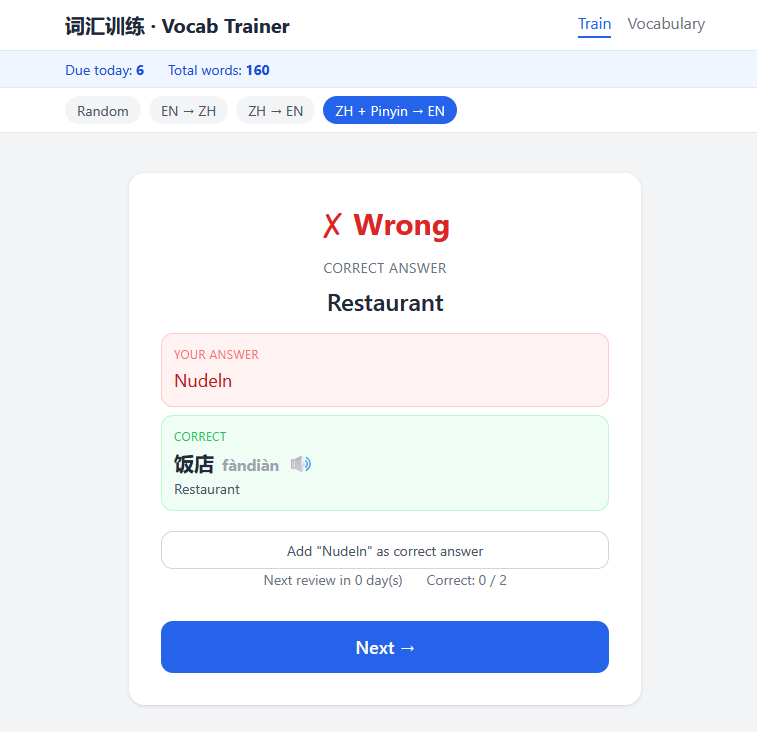
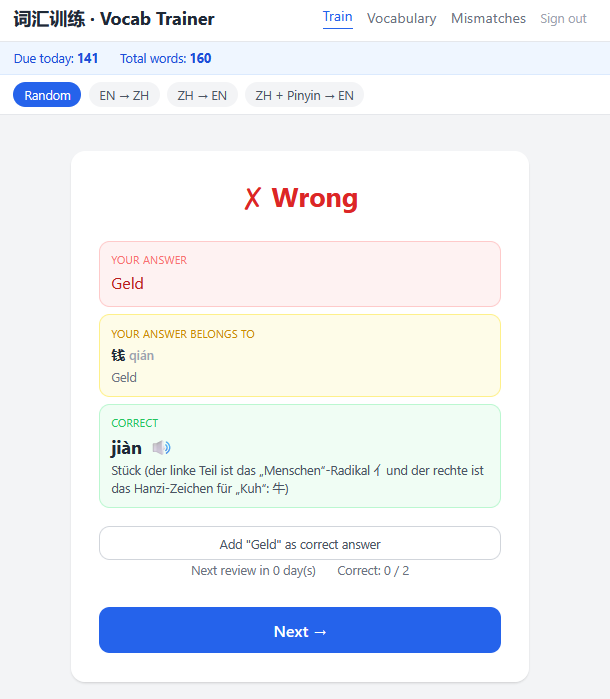
document new features

diff --git a/README.md b/README.md
@@ -10,8 +10,10 @@ A self-hosted Chinese–English vocabulary trainer with spaced repetition (SM-2)
 - [SM-2 spaced repetition](https://www.supermemo.com/en/blog/application-of-a-computer-to-improve-the-results-obtained-in-working-with-the-super-memo-method) — words you get wrong appear more often; correct answers are scheduled further into the future
 - Flexible answer matching: parenthesised segments are optional (`(das) Essen` accepts `Essen`); slash-separated alternatives are each valid (`Essen / Gericht` accepts `Essen` or `Gericht`)
 - On a wrong answer: see what you typed alongside the correct Chinese + pinyin + translations, and optionally add your answer as an accepted translation with one click
+- **Confusion tracking** — if your wrong answer is a valid translation of a *different* known word, it is recorded as a confusion pair (works in all quiz modes); a yellow hint box shows immediately on the result screen, and the full history is visible on the `/mismatches` page
 - 🔊 Read-aloud button on every Chinese word — plays a cached MP3 (Microsoft Edge neural TTS, built into the binary), falls back silently to the browser's Web Speech API
-- Vocabulary management: add, edit, delete, search, paginate; SM-2 progress shown per word
+- Vocabulary management: add, edit, delete, search, paginate, sort by any column; SM-2 progress shown per word
+- Due-date and correct-answer scheduling include a small random jitter to shuffle cards and avoid repetitive review patterns
 - Bulk import from a structured text file (see `cmd/import`)
 - Optional single-user password protection (set `AUTH_USER` / `AUTH_PASSWORD` in `.env`)
 - SQLite database stored on the host filesystem
@@ -29,6 +31,8 @@ Training — answer
 Vocabulary management |
 ![Vocabulary management](images/chinese_vocabulary.png)
 
+Overview - Vocabulary Mismatches
+![Training answer](images/chinese_mismatches.png)
 
 ## Quick start
 
@@ -44,6 +48,7 @@ Then open [http://localhost:8080](http://localhost:8080).
 
 1. Go to **Vocabulary** (`/vocab`) and add some words.
 2. Return to **Train** (`/`) to start a quiz session.
+3. Check **Mismatches** (`/mismatches`) to review words you've confused with each other.
 
 The SQLite database is stored in `./data/vocab.db` on your host.
 
@@ -175,6 +180,7 @@ vocabulary_trainer/
 ├── handlers/
 │   ├── quiz.go              # GET /api/quiz/next, POST /api/quiz/answer, GET /api/quiz/stats
 │   ├── words.go             # CRUD /api/words + POST /api/words/{id}/translations
+│   ├── mismatches.go        # GET /api/mismatches
 │   └── audio.go             # GET /api/audio/{id} — serve/generate cached MP3
 ├── models/models.go         # Shared structs and mode constants
 ├── sm2/sm2.go               # SM-2 algorithm, answer checking, variant expansion
@@ -186,9 +192,11 @@ vocabulary_trainer/
 └── frontend/
     ├── index.html           # Training page
     ├── vocab.html           # Vocabulary management page
+    ├── mismatches.html      # Confusion pairs page
     ├── app.js               # Shared fetch utilities and DOM helpers
     ├── train.js             # Training page logic
-    └── vocab.js             # Vocabulary management logic
+    ├── vocab.js             # Vocabulary management logic
+    └── mismatches.js        # Confusion pairs page logic
 ```
 
 ## API
@@ -198,14 +206,14 @@ vocabulary_trainer/
 | `GET` | `/api/quiz/next` | Get the next card to study |
 | `POST` | `/api/quiz/answer` | Submit an answer |
 | `GET` | `/api/quiz/stats` | Get due-today and total card counts |
-| `GET` | `/api/words` | List words (`q`, `page`, `per_page` query params) |
+| `GET` | `/api/words` | List words (`q`, `page`, `per_page`, `sort`, `order` query params) |
 | `POST` | `/api/words` | Create a vocabulary entry |
 | `GET` | `/api/words/{id}` | Get a single word with translations |
 | `PUT` | `/api/words/{id}` | Update a word |
 | `DELETE` | `/api/words/{id}` | Delete a word |
 | `POST` | `/api/words/{id}/translations` | Add a single English translation to an existing word |
 | `GET` | `/api/audio/{id}` | Serve cached MP3 for a Chinese word (generated on demand) |
-| `GET` | `/api/mismatches` | List recent answer mismatches |
+| `GET` | `/api/mismatches` | List all recorded confusion pairs (wrong answers that matched a different known word) |
 
 ## License
 
